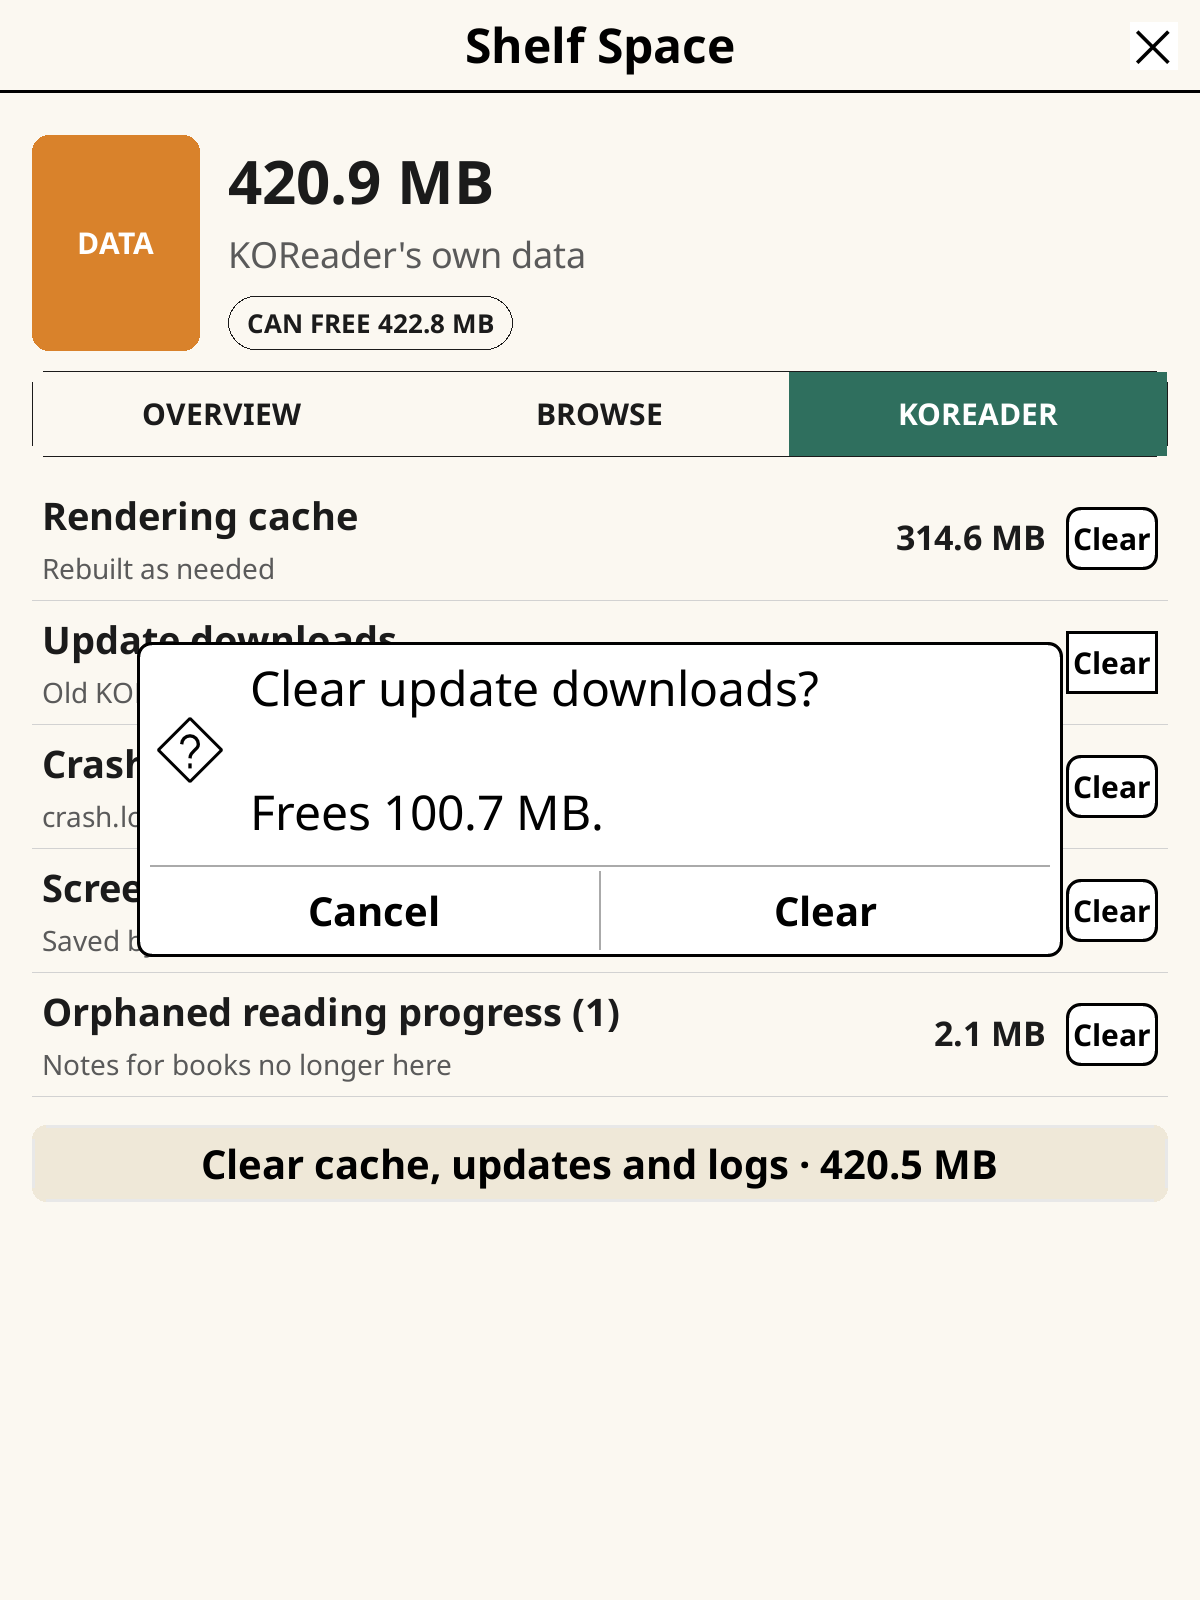
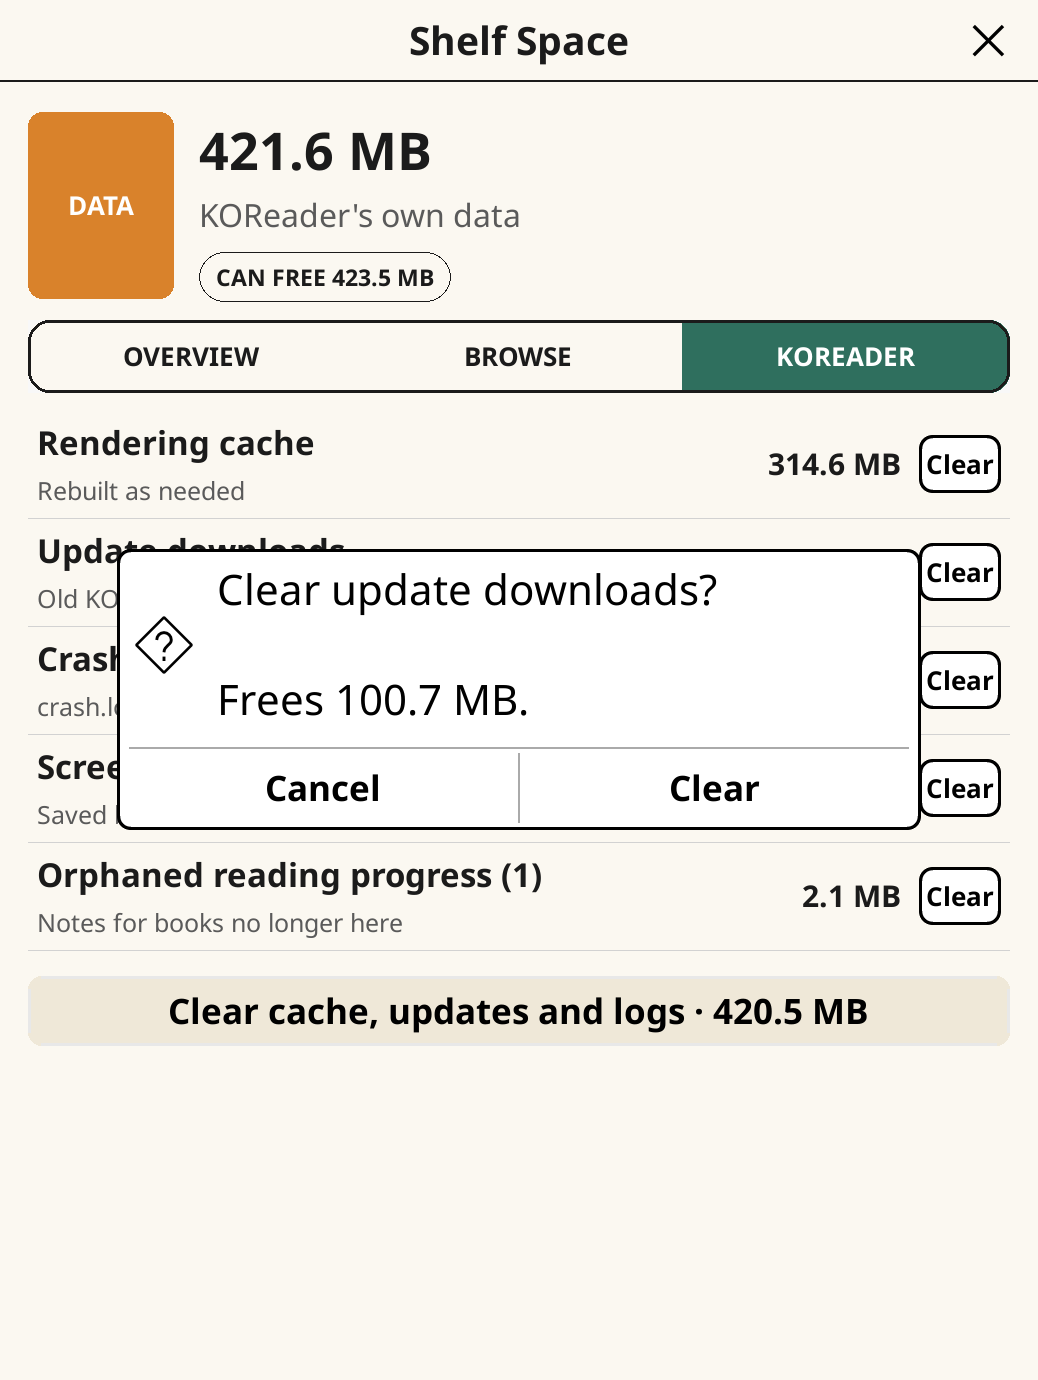
fix: clip fills to rounded corners, drop Delete from locked rows, retake screenshots

diff --git a/README.md b/README.md
@@ -13,11 +13,11 @@ in the desktop emulator.
 
 | KOReader data | Clear | Grayscale screens |
 | --- | --- | --- |
-| <img src="assets/koreader.png" width="260"> | <img src="assets/clear.png" width="260"> | <img src="assets/overview-gray.png" width="260"> |
+| <img src="assets/koreader.png" width="260"> | <img src="assets/clear.png" width="260"> | <img src="assets/browse-gray.png" width="260"> |
 
-Taken in the KOReader desktop emulator, so the totals are a Mac's. Colour
-shows on Kaleido screens such as the Kobo Libra Colour; other screens get the
-grayscale version.
+Taken in the KOReader desktop emulator at Kobo Libra Colour proportions, so the
+totals are a Mac's. Colour shows on Kaleido screens such as the Libra Colour;
+other screens get the grayscale version.
 
 ## What it does
 
